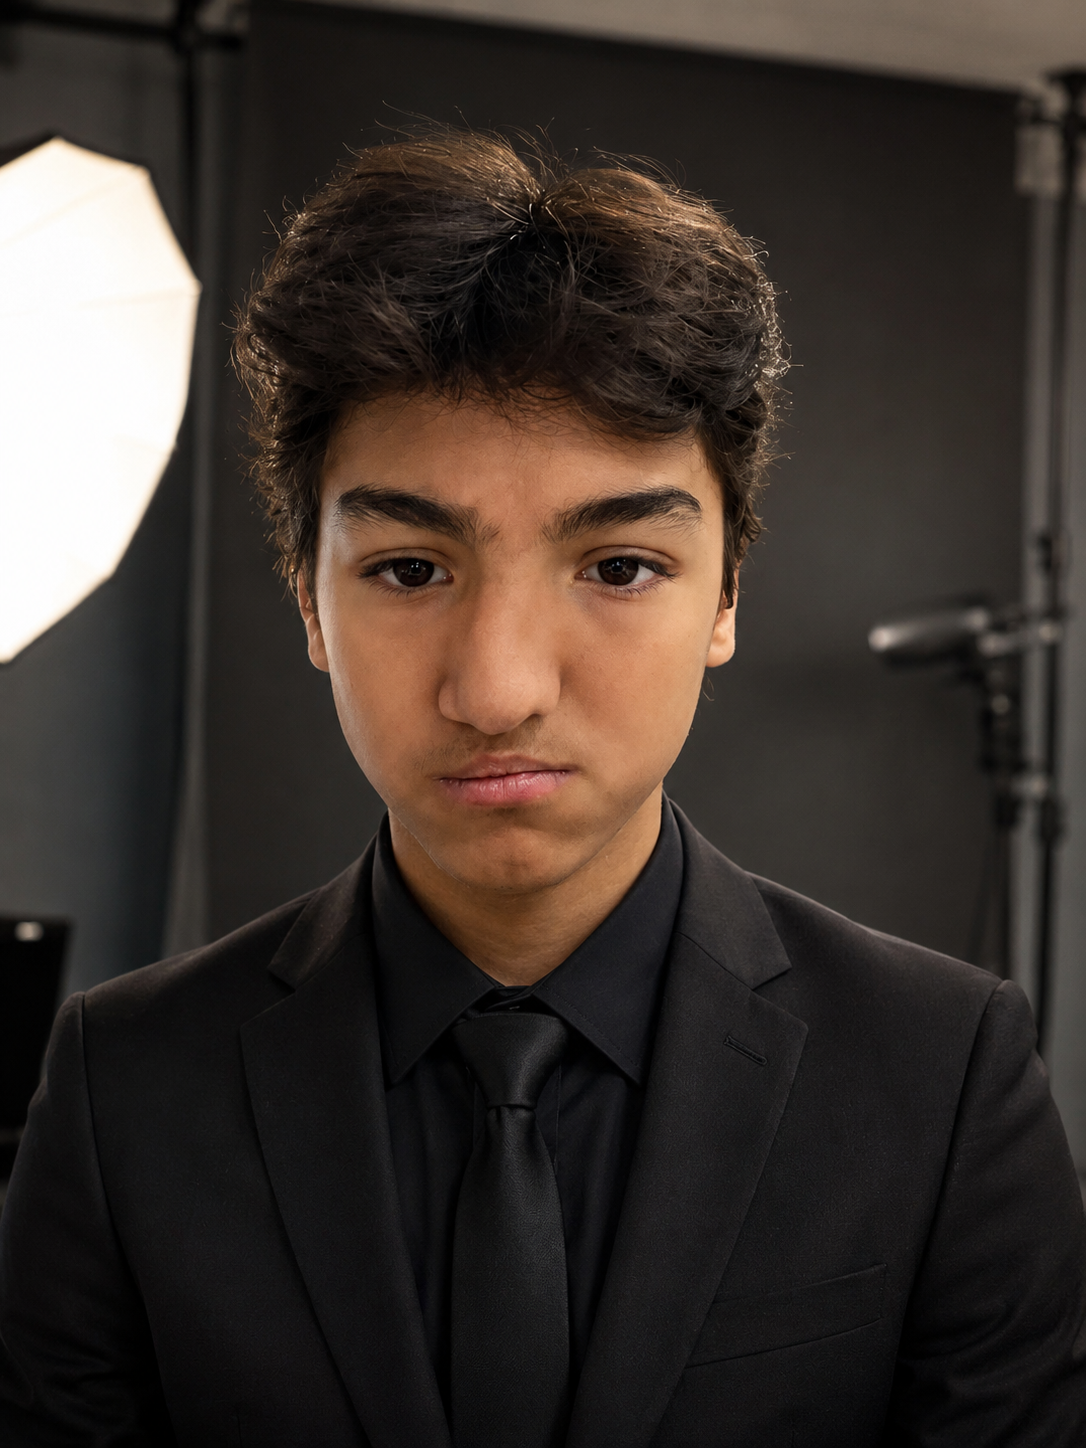
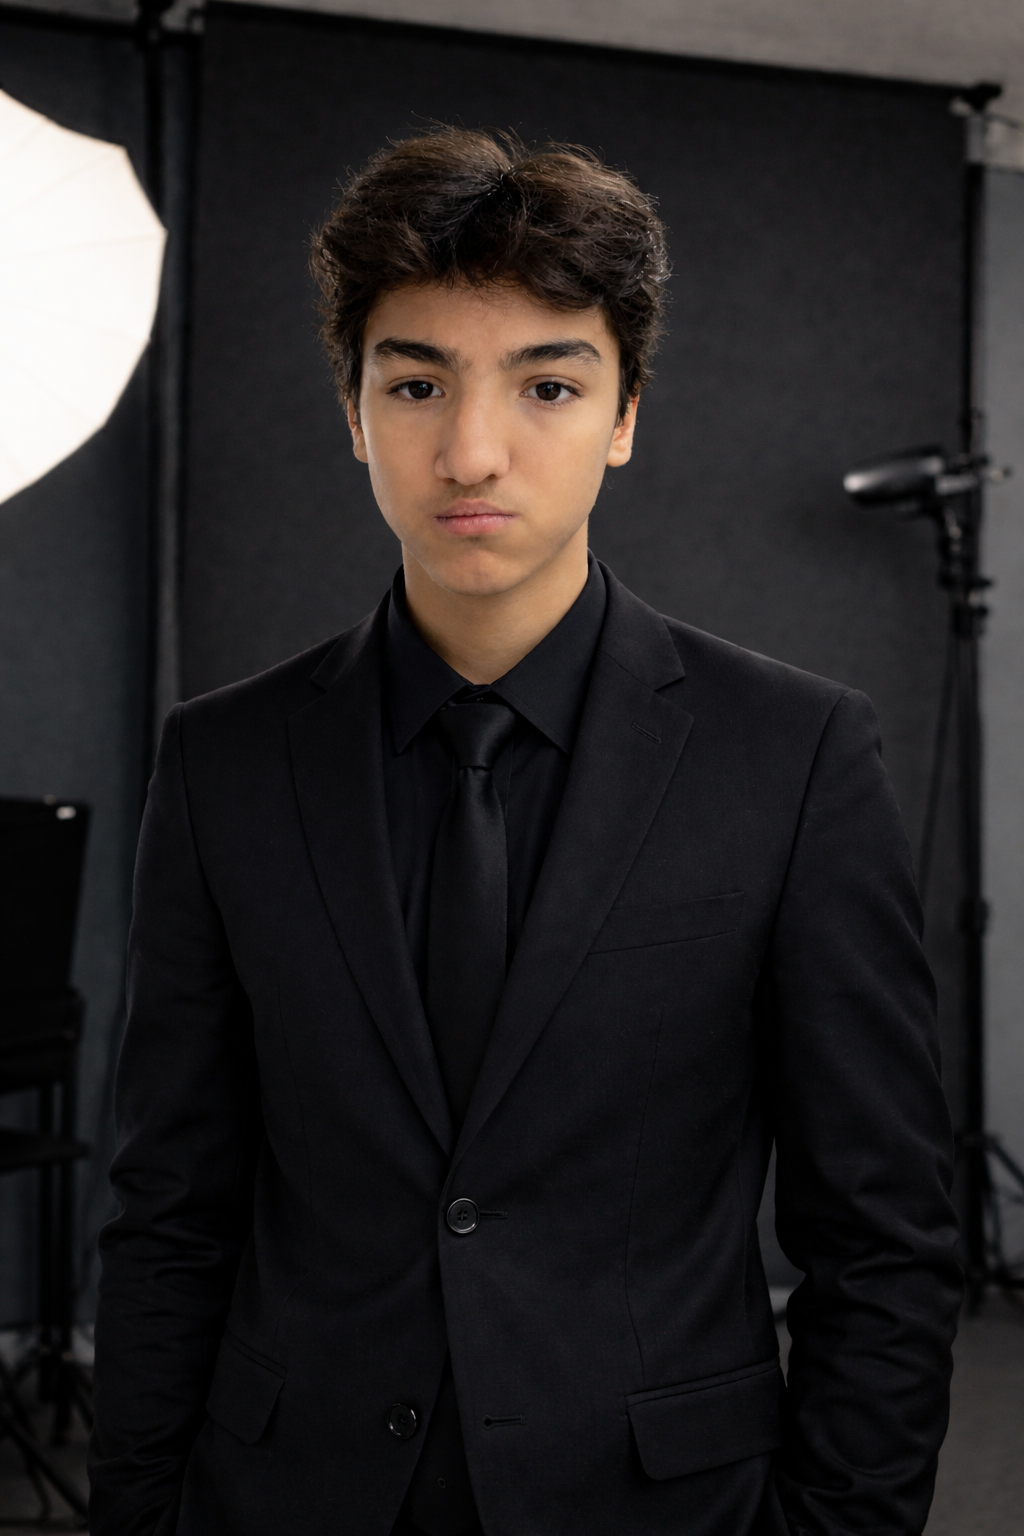
My Photo Update

diff --git a/index.html b/index.html
@@ -7,6 +7,9 @@
     <title>Portfolio</title>
     <link rel="stylesheet" href="style.css">
     <link href="https://unpkg.com/aos@2.3.1/dist/aos.css" rel="stylesheet">
+    <link rel="preconnect" href="https://fonts.googleapis.com">
+<link rel="preconnect" href="https://fonts.gstatic.com" crossorigin>
+<link href="https://fonts.googleapis.com/css2?family=Italiana&family=Montserrat:ital,wght@0,100..900;1,100..900&family=Nunito:ital,wght@0,200..1000;1,200..1000&family=Roboto:ital,wght@0,100..900;1,100..900&display=swap" rel="stylesheet">
 </head>
 
 <body>

diff --git a/style.css b/style.css
@@ -2,7 +2,8 @@
   margin: 0;
   padding: 0;
   box-sizing: border-box;
-  font-family: sans-serif;
+    font-family: "Nunito", sans-serif;
+
 }
 
 
@@ -137,7 +138,7 @@ h1 span {
     border: 3px solid #00c9a7;
     border-radius: 50%;
     object-fit: cover;
-    object-position: center;
+    object-position: top;
     display: block;
 }
 
